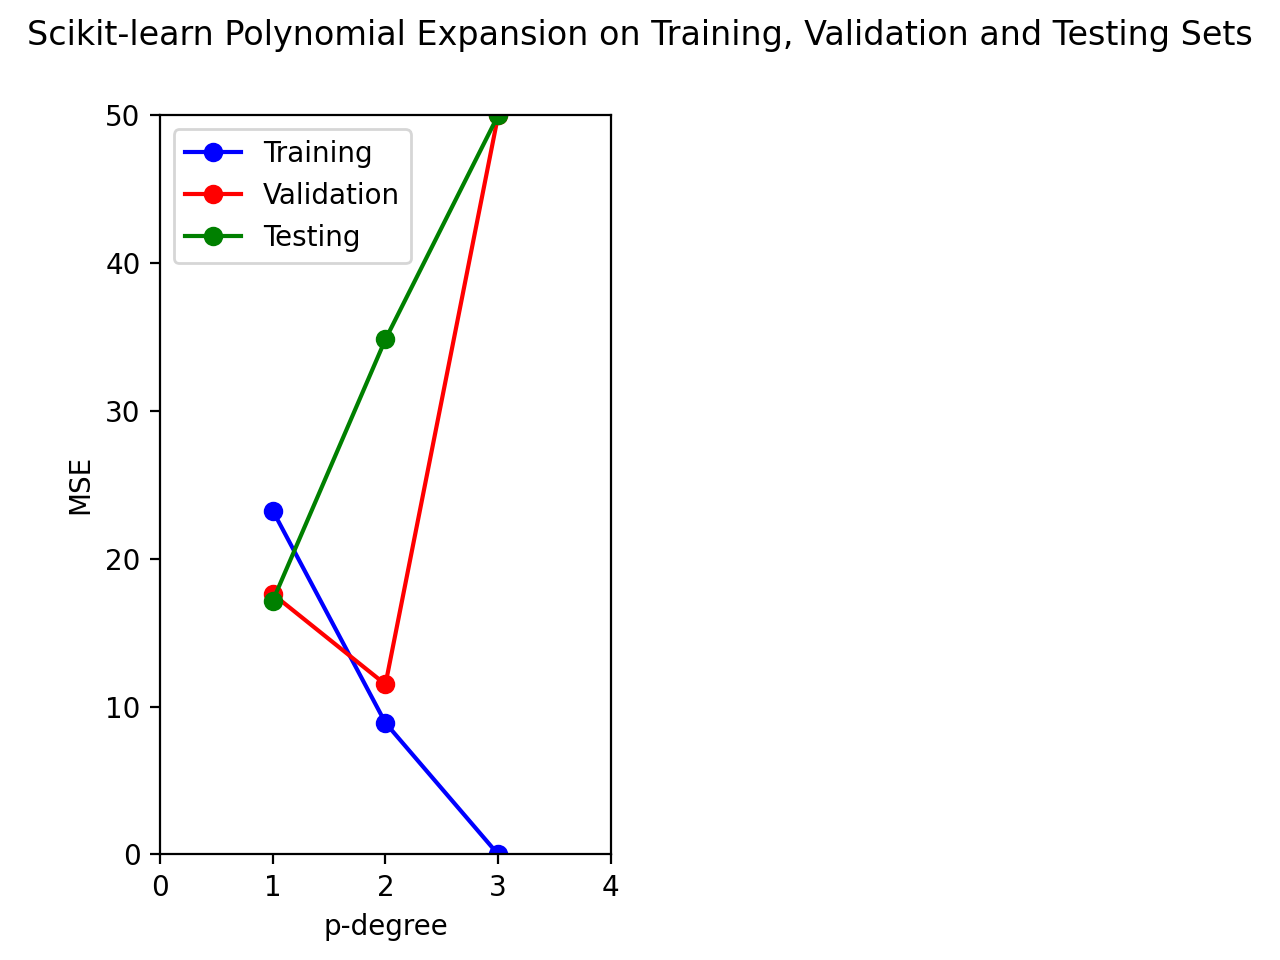
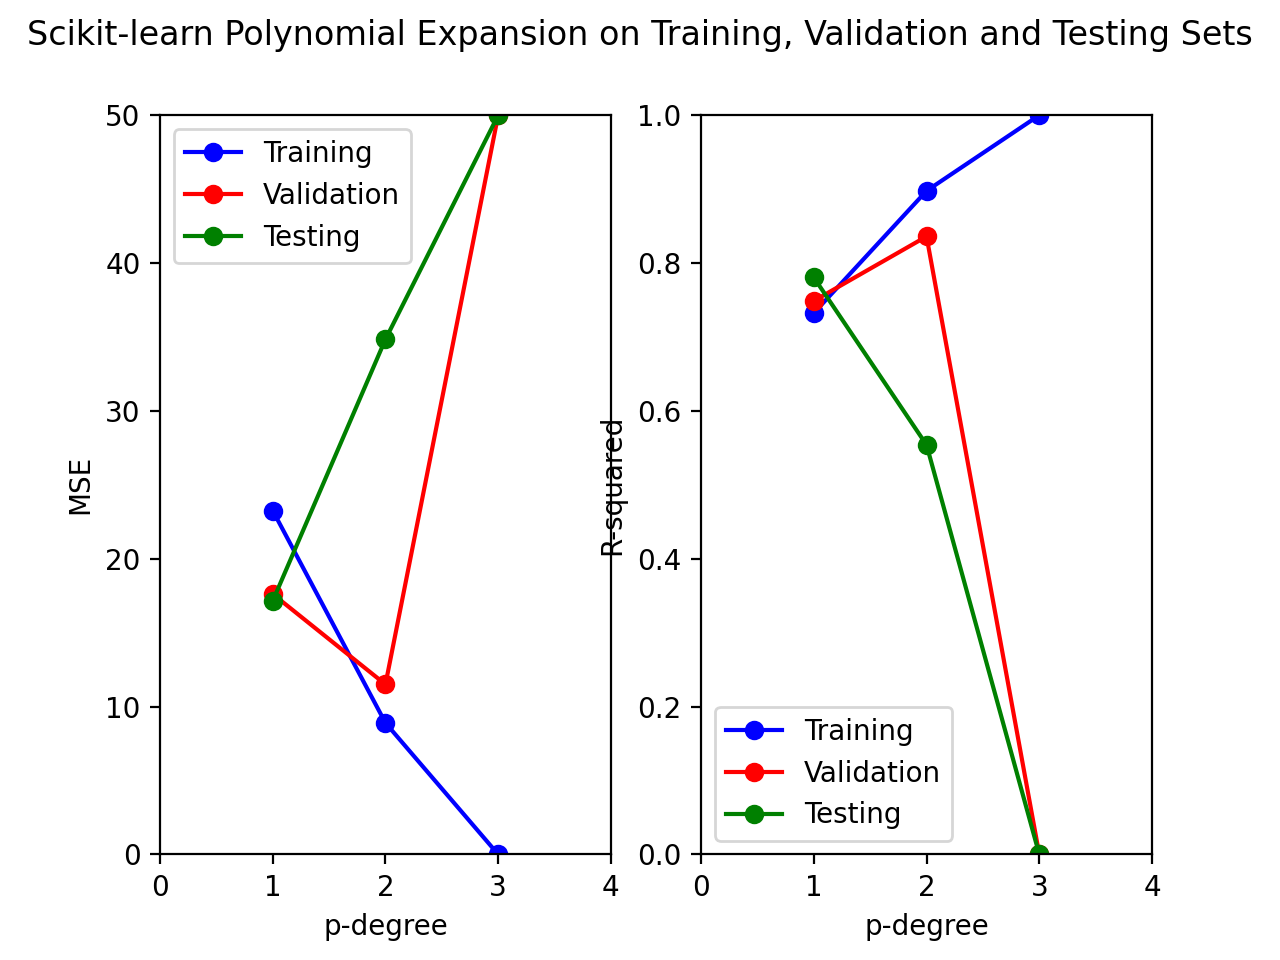
Fix up helper method for creating subplots

diff --git a/cw/exercise5_new.py b/cw/exercise5_new.py
@@ -332,7 +332,9 @@ def clip_scores(scores):
         scores["mse"][test_set] = np.clip(scores["mse"][test_set], 0.0, 50.0)
     # Clip each set of R-squared scores between 0 and 1
     for test_set in scores["r2"]:
-        scores["mse"][test_set] = np.clip(scores["mse"][test_set], 0.0, 50.0)
+        scores["r2"][test_set] = np.clip(scores["r2"][test_set], 0.0, 50.0)
+        
+    print("R2 scores clipped to: {}".format(scores["r2"]))
 
 
 def set_up_subplot(ax, scores, score_type):
@@ -353,8 +355,9 @@ def set_up_subplot(ax, scores, score_type):
     else: 
         raise ValueError("Unexpected score_type")
     # Set y label to 'MSE' or 'R2' depending on score_type
-    ax.set_ylabel(score_type.upper())
-    # Set x label to 'p-degree'
+    y_label = 'MSE' if score_type == 'mse' else 'R-squared'
+    ax.set_ylabel(y_label)
+    # Set x label to 'p-degree' for both types of graphs
     ax.set_xlabel('p-degree')
 
 
@@ -524,18 +527,20 @@ if __name__ == '__main__':
     set_up_subplot(ax, scores, 'mse')
 
     # TODO: Create subplot for R-square for training, validation, testing
+    ax = fig.add_subplot(1, 2, 2)
+    set_up_subplot(ax, scores, 'r2')
 
 
-    x_values = [[0], [0], [0]]
-    y_values = [[0], [0], [0]]
-    labels = ['Training', 'Validation', 'Testing']
-    colors = ['blue', 'red', 'green']
+    # x_values = [[0], [0], [0]]
+    # y_values = [[0], [0], [0]]
+    # labels = ['Training', 'Validation', 'Testing']
+    # colors = ['blue', 'red', 'green']
 
-    # TODO: Plot R-squared scores for training, validation, testing sets
+    # # TODO: Plot R-squared scores for training, validation, testing sets
 
-    # TODO: Set y limits between 0 and 1, set x limits to 0 to number experiments + 1
+    # # TODO: Set y limits between 0 and 1, set x limits to 0 to number experiments + 1
 
-    # TODO: Set y label to 'R-squared', set x label to 'p-degree'
+    # # TODO: Set y label to 'R-squared', set x label to 'p-degree'
 
     # TODO: Create super title 'Scikit-learn Polynomial Expansion on Training, Validation and Testing Sets'
     plt.suptitle('Scikit-learn Polynomial Expansion on Training, Validation and Testing Sets')
